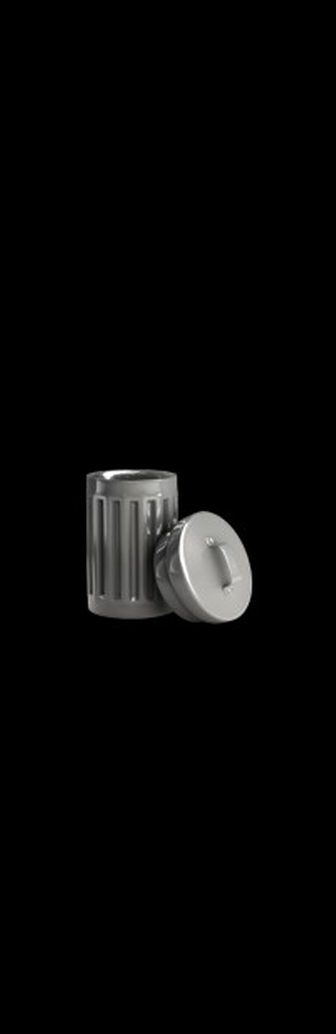
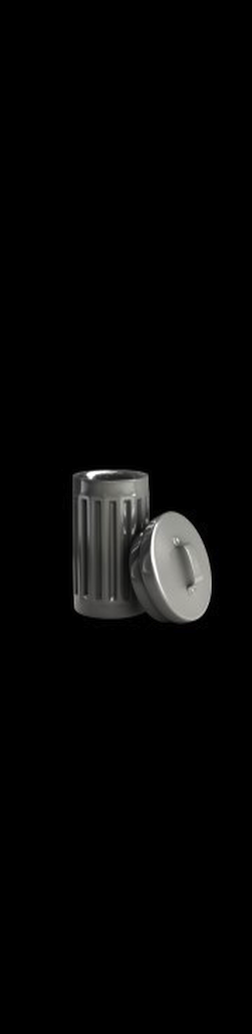
no matter what I do I can't get it over the font. I will keep working on it doe

Changed region(s): [[0.25, 0.4333, 0.8611, 0.619]]

diff --git a/Team1Game3/Team1Game3/PhysicsLayer.mm b/Team1Game3/Team1Game3/PhysicsLayer.mm
@@ -645,9 +645,8 @@
         QueryCallback callback(_initialTouchPosition);
         world->QueryAABB(&callback, aabb);
         
-        _trash = [CCSprite spriteWithFile:@"trashyCan.png"];
-        _trash.position = ccp(-self.boundingBox.size.width/6, self.boundingBox.size.height/2);
-        [self addChild:_trash];
+
+        
         
         b2Body* body = callback.m_object;
         
@@ -662,6 +661,12 @@
                 _currentMoveableBody = body;
                 
                 [_moveableDynamicStatus removeAllObjects];
+                
+                
+                _trash = [CCSprite spriteWithFile:@"trashyCan.png"];
+                _trash.position = ccp(-self.boundingBox.size.width/5.9, self.boundingBox.size.height/2);
+                [self addChild:_trash z:0];
+                
                 
                 std::vector<b2Body*> bodies = bodyObject->_bodies;
                 for (std::vector<b2Body*>::iterator i = bodies.begin(); i != bodies.end(); ++i) {

diff --git a/Team1Game3/Team1Game3/InventoryLayer.mm b/Team1Game3/Team1Game3/InventoryLayer.mm
@@ -85,12 +85,13 @@
         [inventoryButton addChild:numLabel z:1 tag:NSIntegerMin];
         
         [inventoryMenu addChild:inventoryButton];
+        
     }
     
     
     [inventoryMenu alignItemsVerticallyWithPadding:10.0f];
     [inventoryMenu setPosition:ccp(size.width/8, size.height/2)];
-    [self addChild: inventoryMenu z:-1];
+    [self addChild: inventoryMenu z:2];
 }
 
 /* registerWithTouchDispacher:
